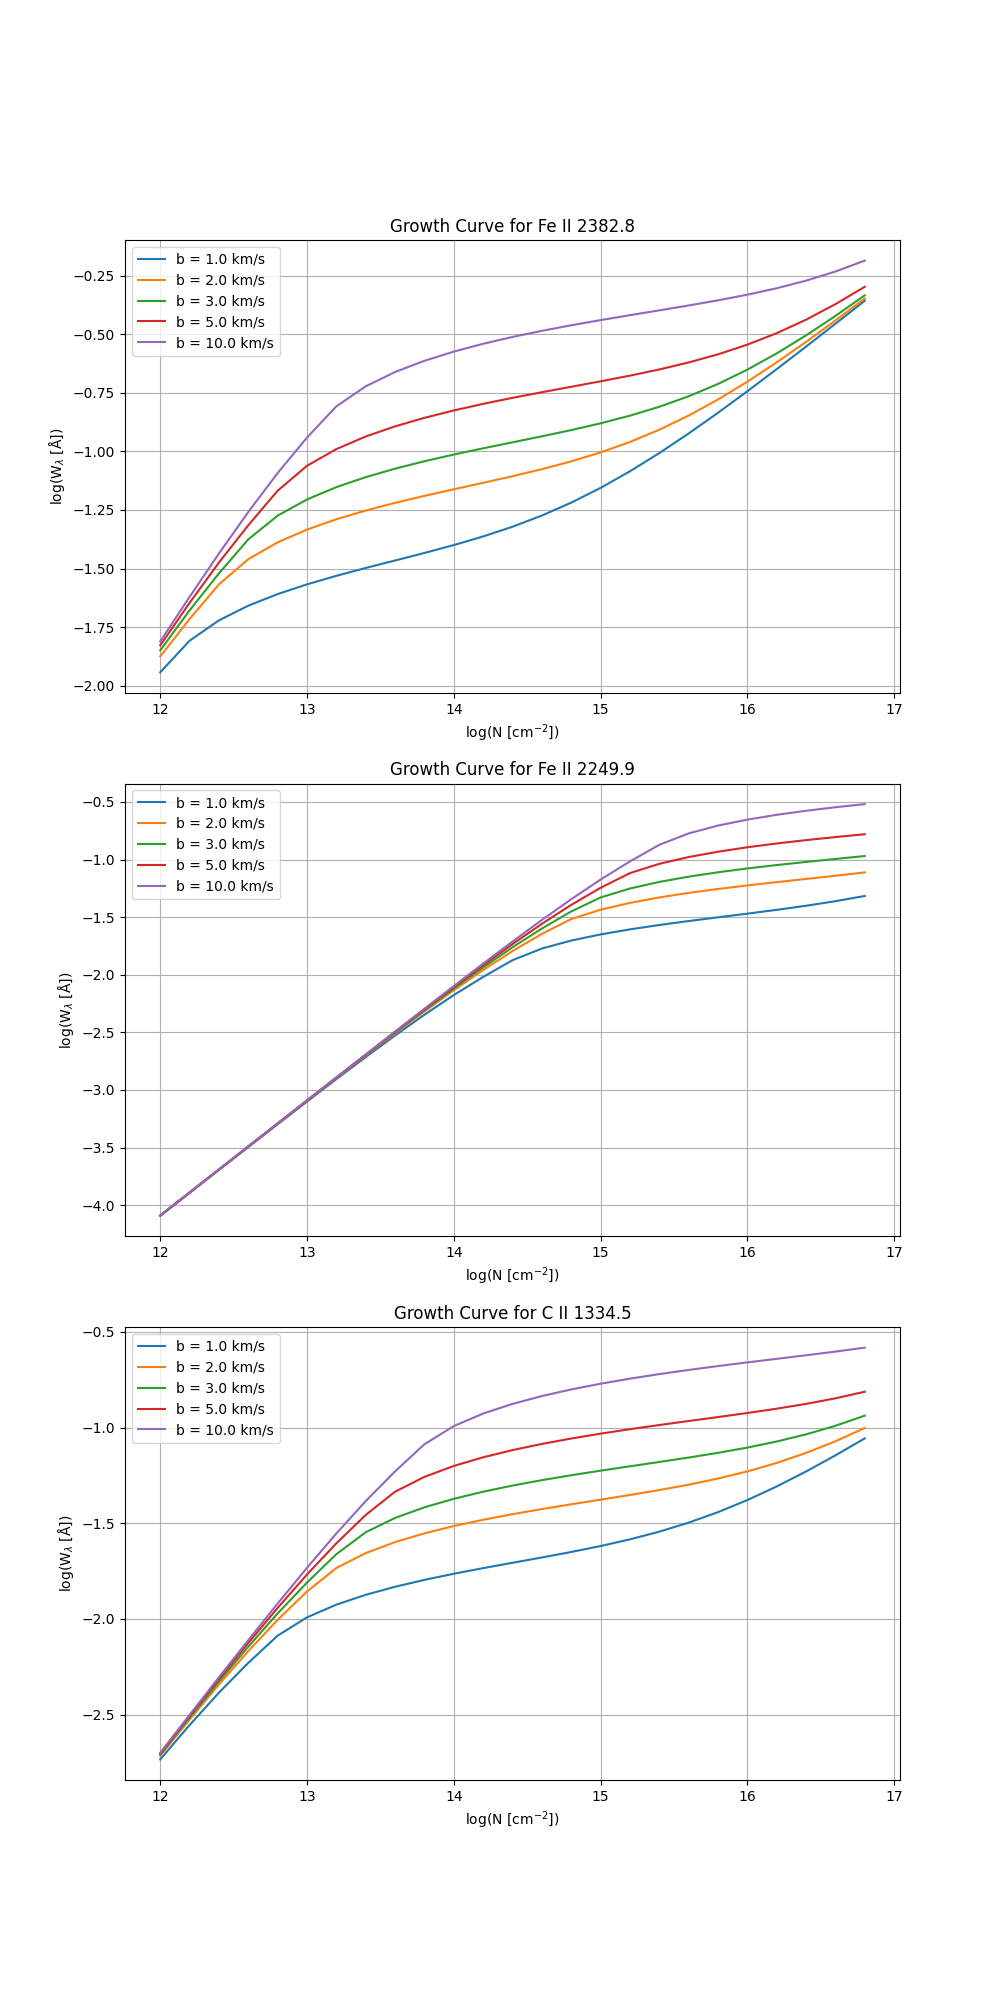
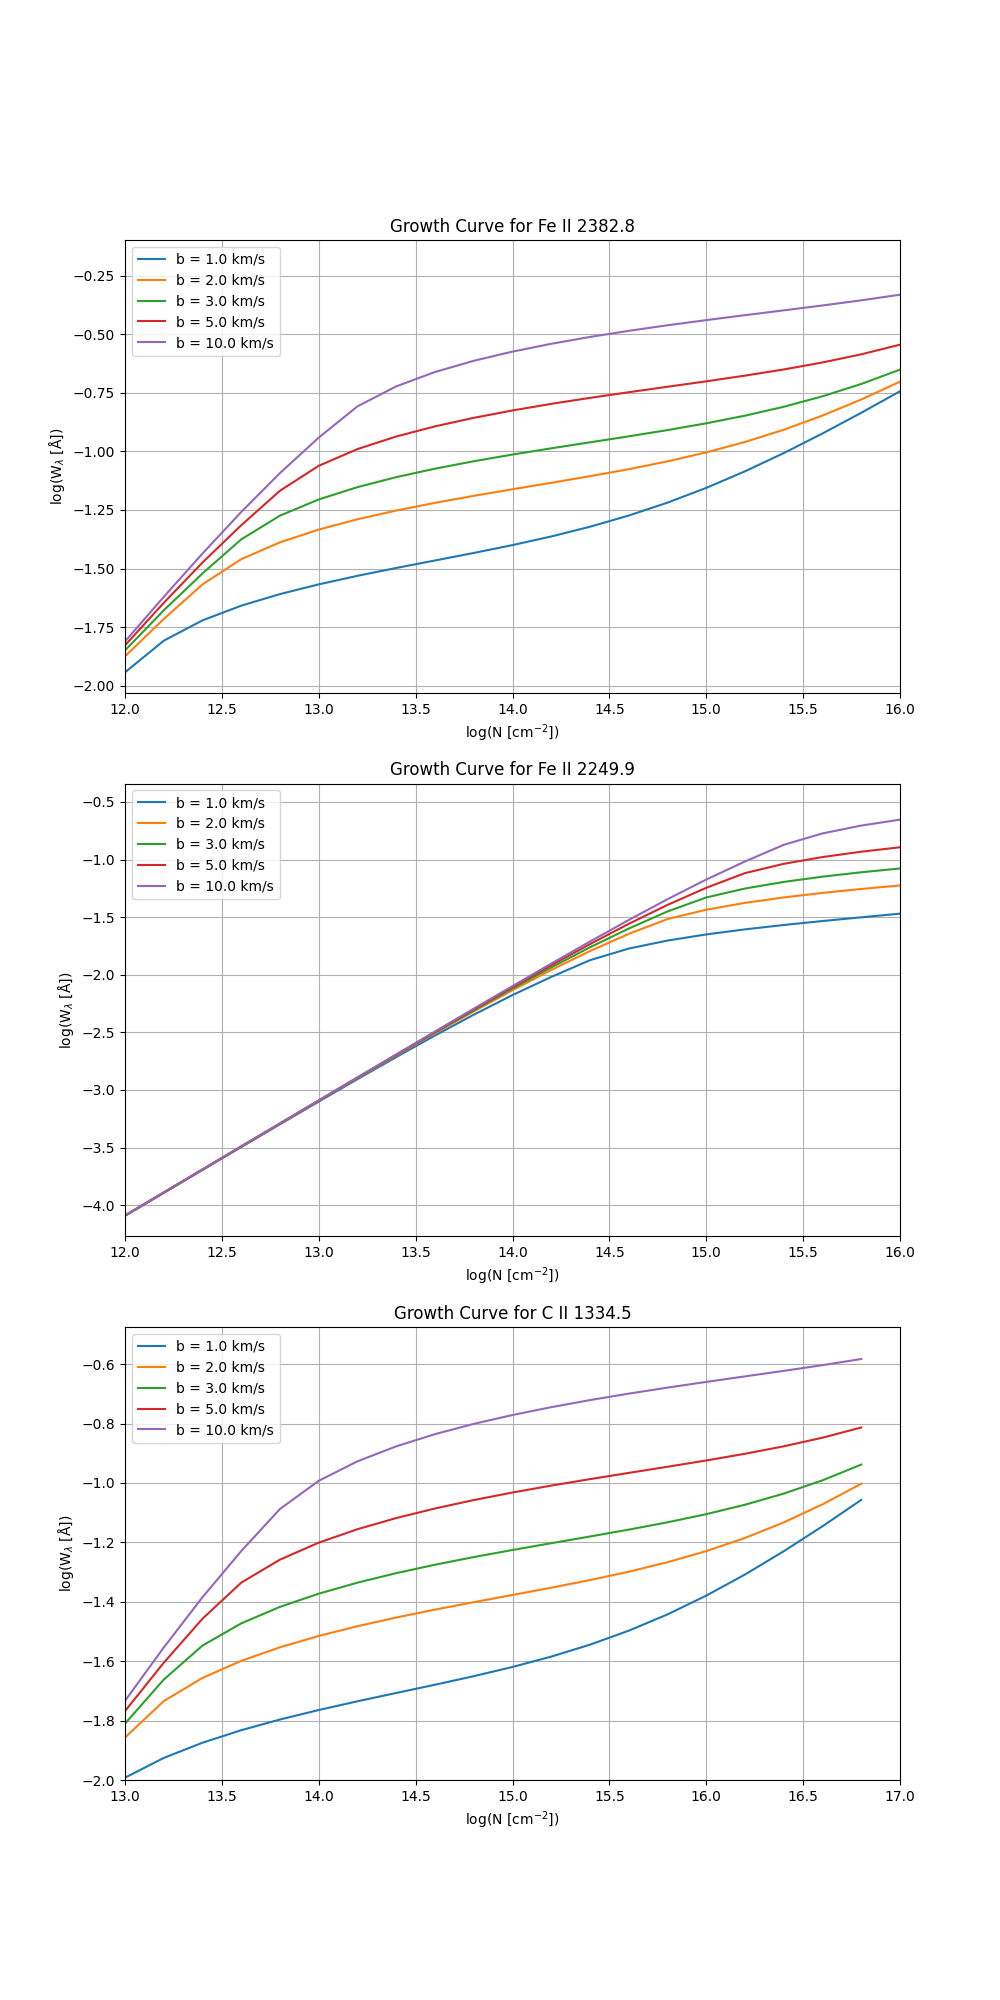
COG plot limitscorreted

diff --git a/ISM_curve_of_growth.py b/ISM_curve_of_growth.py
@@ -117,6 +117,7 @@ if __name__ == '__main__':
     column_density_vals = 10 ** np.arange(12, 17, 0.2, dtype=float)
     plt.subplot(3, 1, 1)
     plot_curve_growth(column_density_vals, osc_strength, wavelength_fe, doppler_b_vals, damping_gamma, approx=is_approx, title='Fe II 2382.8')
+    plt.xlim(12,16)
 
     # Iron (Fe II) transition at 2249.9 Å
     osc_strength  = 0.00182
@@ -127,6 +128,7 @@ if __name__ == '__main__':
 
     plt.subplot(3, 1, 2)
     plot_curve_growth(column_density_vals, osc_strength, wavelength_fe, doppler_b_vals, damping_gamma, approx=is_approx, title='Fe II 2249.9')
+    plt.xlim(12,16)
 
     # Carbon (C II) transition at 1334.5 Å
     osc_strength  = 0.12780
@@ -137,5 +139,7 @@ if __name__ == '__main__':
 
     plt.subplot(3, 1, 3)
     plot_curve_growth(column_density_vals, osc_strength, wavelength_c, doppler_b_vals, damping_gamma, approx=is_approx, title='C II 1334.5')
+    plt.xlim(13,17)
+    plt.ylim(-2,)
 
     plt.savefig('curve_of_growth.png')
